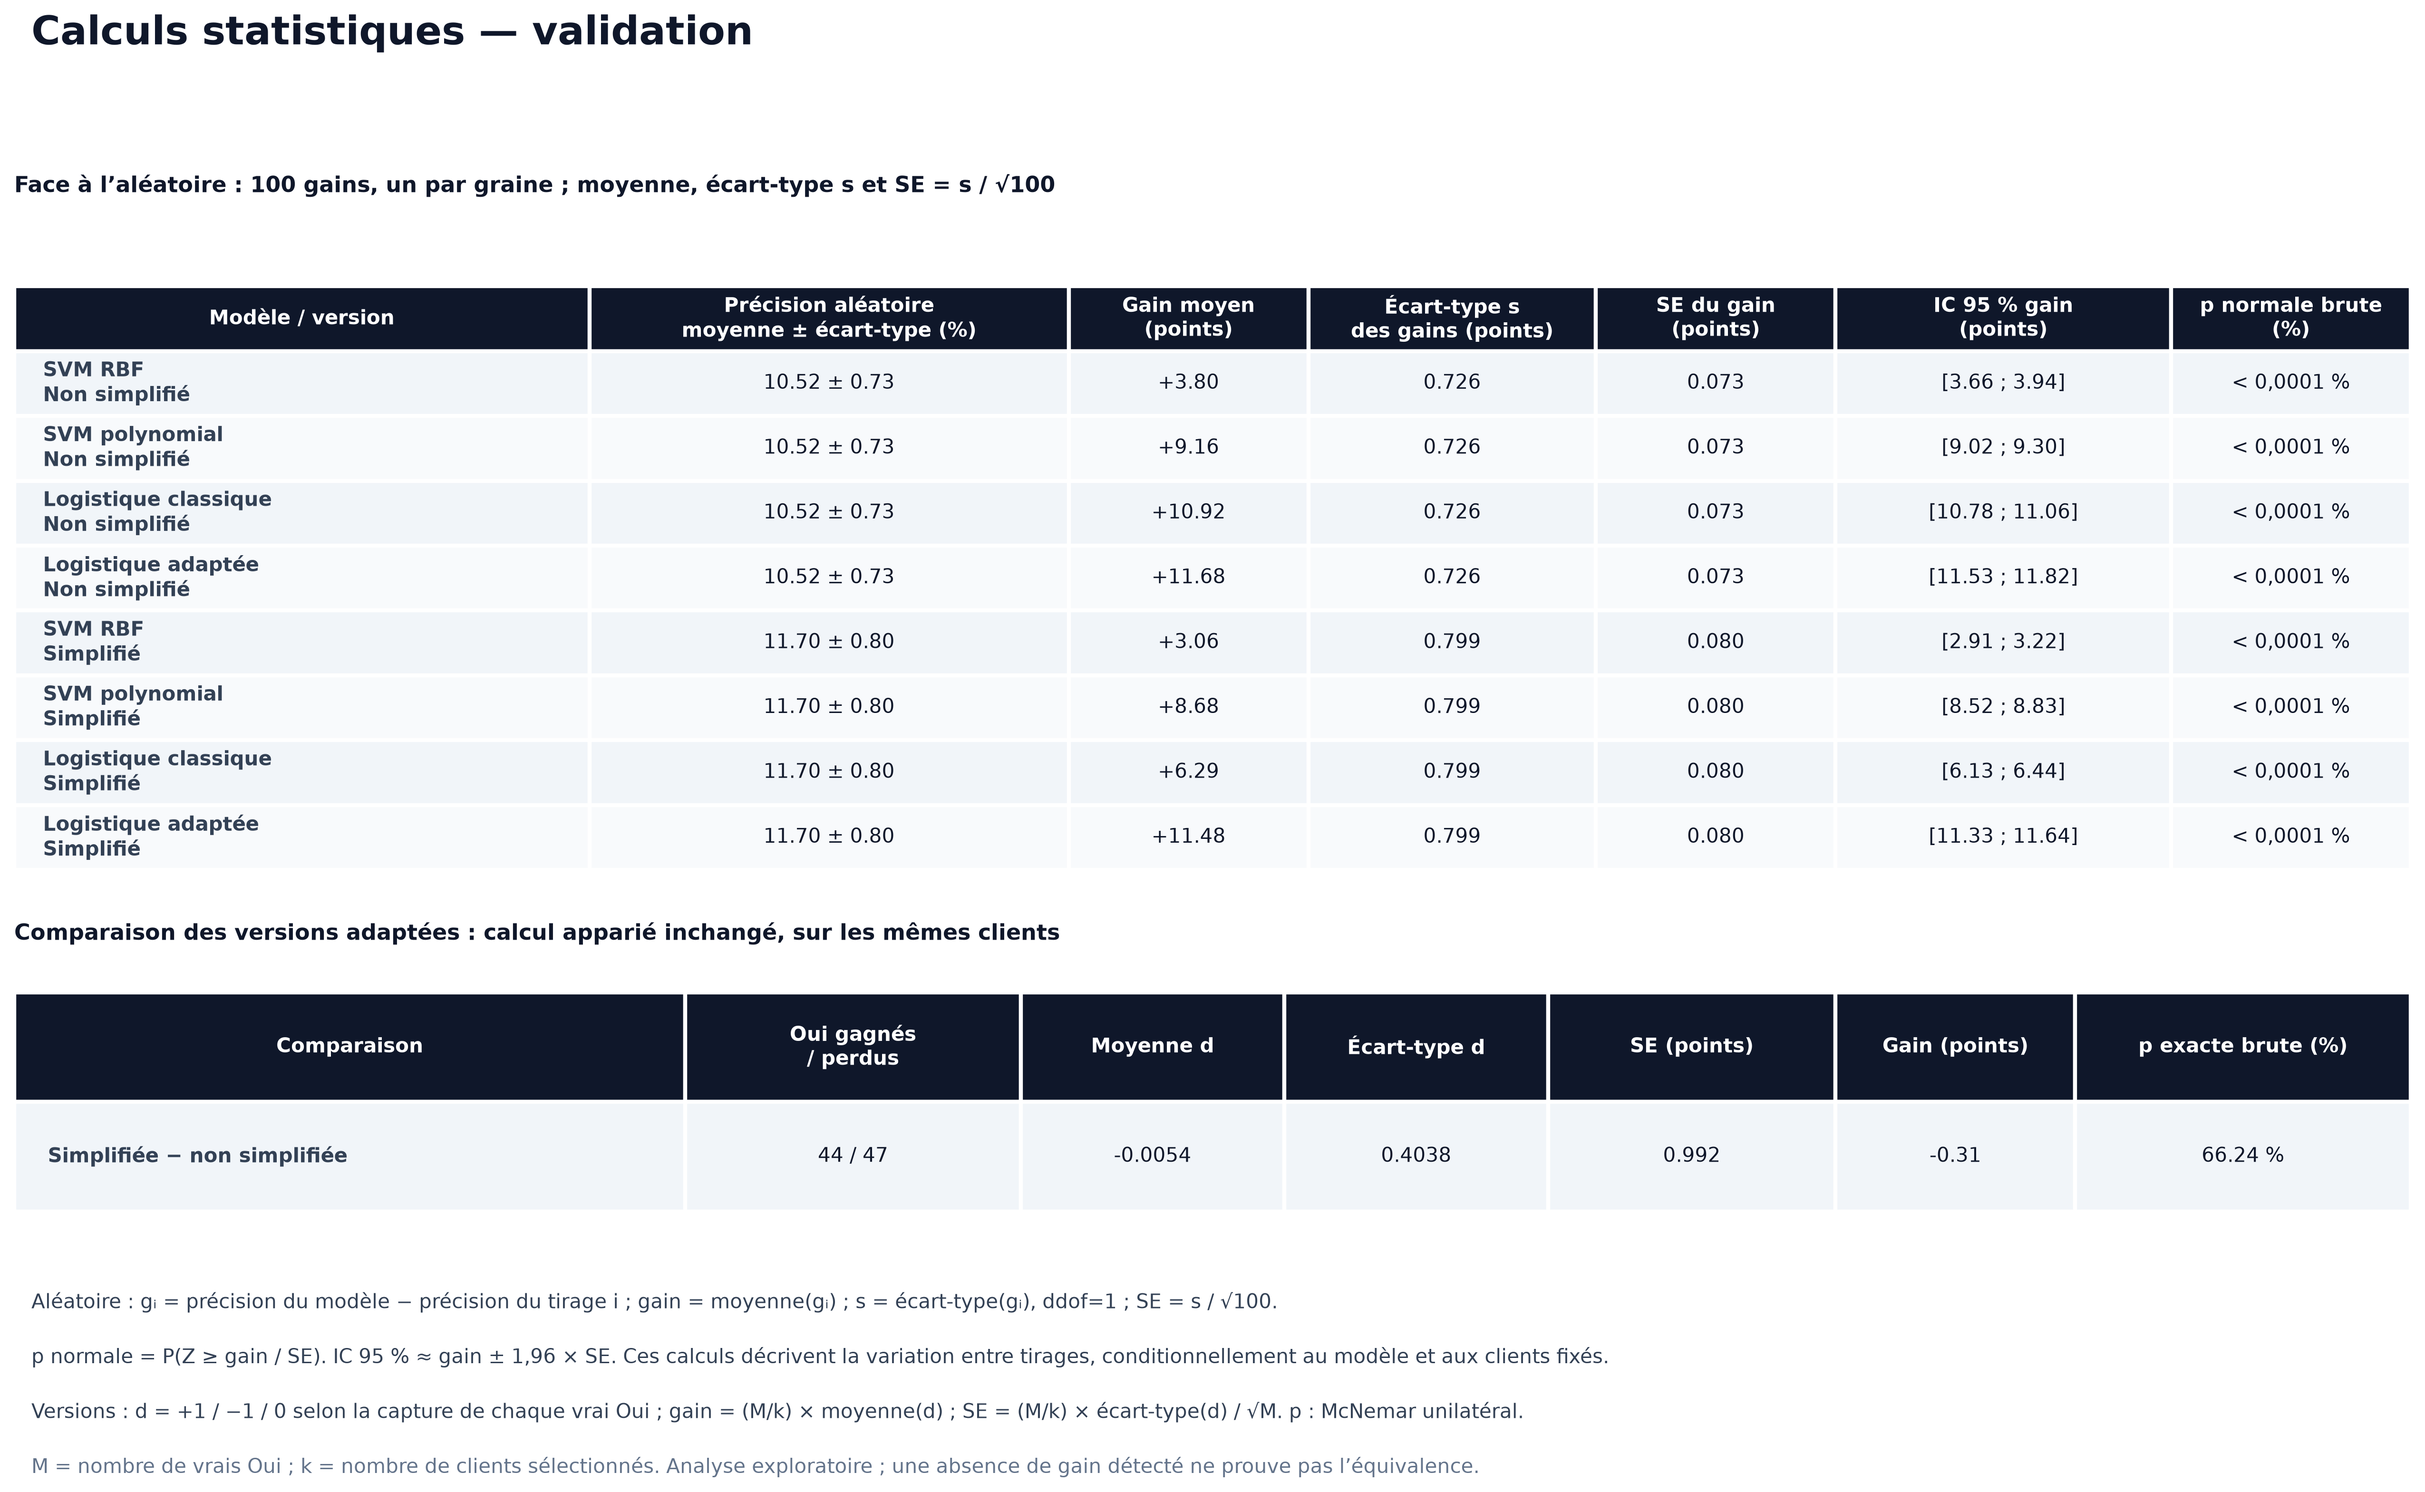
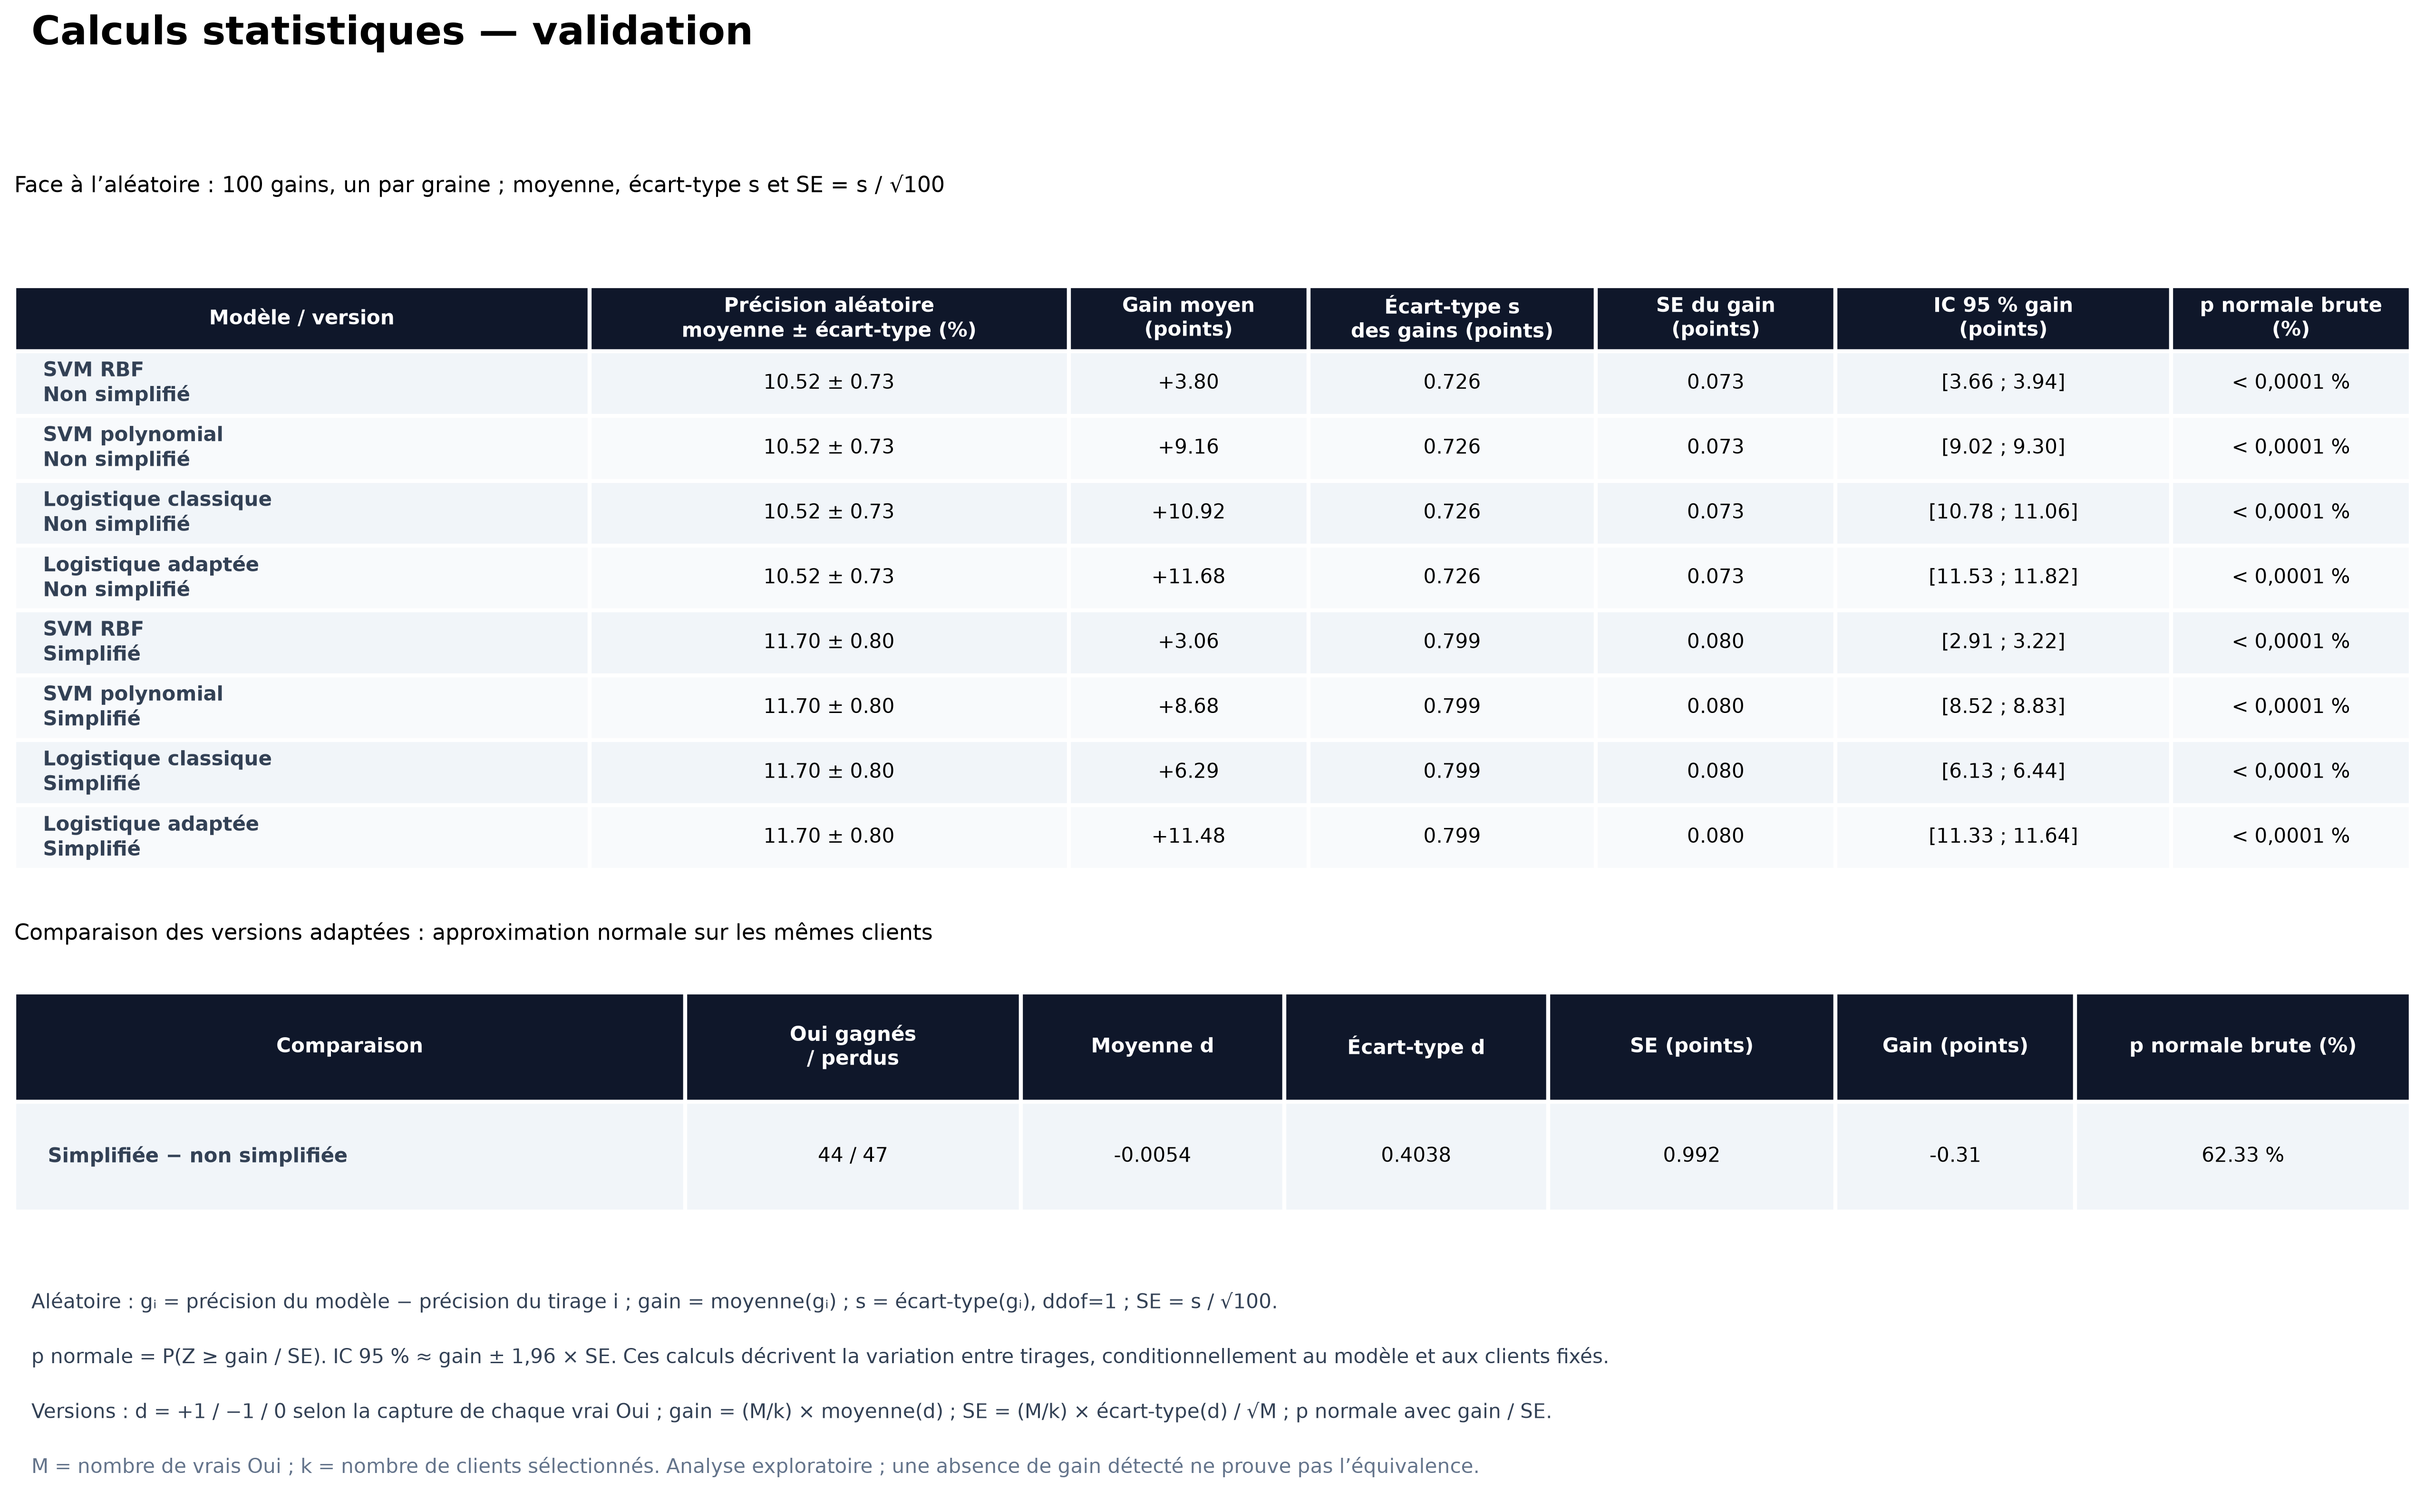
v1.3 Modification des calculs Statistiques

diff --git a/Scripts/TableauRecapitulatif.py b/Scripts/TableauRecapitulatif.py
@@ -60,7 +60,7 @@ def enregistrer_tableau(tableau, dossier_resultats="../Resultats/Statistiques"):
         dessiner_tableau(axes[1], ligne_versions,
                         ["Comparaison", "Gain (points)", "p-value (%)", "IC 95 % du gain (points)"],
                         [.46, .14, .14, .26], ["#c2410c"])
-        fig.text(.06, .09, "Gain = précision du modèle − précision moyenne aléatoire (100 graines, 0 à 99). p-values brutes, sans correction.",
+        fig.text(.06, .09, "Gain = précision du modèle − précision moyenne aléatoire (100 graines, 0 à 99). p-values normales brutes, sans correction.",
                  color="#475569", fontsize=10)
         fig.text(.06, .055, "Choix final : régression logistique adaptée, données non simplifiées.",
                  color="#c2410c", fontweight="bold", fontsize=11)
@@ -88,7 +88,7 @@ def enregistrer_tableau(tableau, dossier_resultats="../Resultats/Statistiques"):
                         ["Modèle / version", "Précision aléatoire\nmoyenne ± écart-type (%)", "Gain moyen\n(points)",
                          "Écart-type s\ndes gains (points)", "SE du gain\n(points)", "IC 95 % gain\n(points)", "p normale brute\n(%)"],
                         [.24, .20, .10, .12, .10, .14, .10])
-        axes[1].set_title("Comparaison des versions adaptées : calcul apparié inchangé, sur les mêmes clients",
+        axes[1].set_title("Comparaison des versions adaptées : approximation normale sur les mêmes clients",
                           loc="left", fontsize=11, pad=14)
         r = versions
         dessiner_tableau(axes[1], [["Simplifiée − non simplifiée", f"{int(r.gagnes)} / {int(r.perdus)}",
@@ -96,10 +96,10 @@ def enregistrer_tableau(tableau, dossier_resultats="../Resultats/Statistiques"):
                                    f"{100*r.erreur_standard_gain_precision:.3f}",
                                    f"{100*r.gain_precision:+.2f}", pourcentage_p(r.p_brute)]],
                         ["Comparaison", "Oui gagnés\n/ perdus", "Moyenne d", "Écart-type d", "SE (points)",
-                         "Gain (points)", "p exacte brute (%)"], [.28, .14, .11, .11, .12, .10, .14])
+                         "Gain (points)", "p normale brute (%)"], [.28, .14, .11, .11, .12, .10, .14])
         fig.text(.055, .155, "Aléatoire : gᵢ = précision du modèle − précision du tirage i ; gain = moyenne(gᵢ) ; s = écart-type(gᵢ), ddof=1 ; SE = s / √100.", fontsize=10, color="#334155")
         fig.text(.055, .12, "p normale = P(Z ≥ gain / SE). IC 95 % ≈ gain ± 1,96 × SE. Ces calculs décrivent la variation entre tirages, conditionnellement au modèle et aux clients fixés.", fontsize=10, color="#334155")
-        fig.text(.055, .085, "Versions : d = +1 / −1 / 0 selon la capture de chaque vrai Oui ; gain = (M/k) × moyenne(d) ; SE = (M/k) × écart-type(d) / √M. p : McNemar unilatéral.", fontsize=10, color="#334155")
+        fig.text(.055, .085, "Versions : d = +1 / −1 / 0 selon la capture de chaque vrai Oui ; gain = (M/k) × moyenne(d) ; SE = (M/k) × écart-type(d) / √M ; p normale avec gain / SE.", fontsize=10, color="#334155")
         fig.text(.055, .05, "M = nombre de vrais Oui ; k = nombre de clients sélectionnés. Analyse exploratoire ; une absence de gain détecté ne prouve pas l’équivalence.", fontsize=10, color="#64748b")
         fig.tight_layout(rect=(.04, .20, .99, .93), h_pad=2)
         chemin_calculs = dossier / "Calculs_statistiques.png"

diff --git a/Scripts/Statistiques.py b/Scripts/Statistiques.py
@@ -1,7 +1,7 @@
 # %% Imports — aucune lecture du jeu de test
 import numpy as np
 import pandas as pd
-from scipy.stats import binomtest, norm
+from scipy.stats import norm
 from joblib import load
 from Random import evaluer_aleatoire
 
@@ -28,9 +28,6 @@ def comparer_selections(y, choix, reference):
     gain_precision = (gagnes - perdus) / k
     p_normale = (float(norm.sf(gain_precision / erreur_standard))
                  if erreur_standard > 0 else (1.0 if moyenne == 0 else None))
-    # Version unilaterale du test exact de McNemar sur la capture des vrais oui.
-    p_exacte = (float(binomtest(gagnes, gagnes + perdus, .5, alternative="greater").pvalue)
-               if gagnes + perdus else 1.0)
     marge = float(norm.ppf(.975) * erreur_standard)
     return {
         "clients": len(y), "oui": m, "selectionnes": k,
@@ -43,7 +40,7 @@ def comparer_selections(y, choix, reference):
         "gain_rappel": moyenne, "gain_precision": gain_precision,
         "erreur_standard_gain_precision": float(erreur_standard),
         "ic95_bas": gain_precision - marge, "ic95_haut": gain_precision + marge,
-        "p_normale_approx": p_normale, "p_brute": p_exacte,
+        "p_normale_approx": p_normale, "p_brute": p_normale,
     }
 
 
@@ -115,7 +112,7 @@ def analyser_validation(
     reference = predictions_top20(initial["logistique_adaptee"]["modele"], X_initial_commun)
     lignes.append({
         "version": "Comparaison des versions", "modele": "Logistique adaptee simplifiee",
-        "reference": "Logistique adaptee initiale", "test": "McNemar unilateral sur vrais oui",
+        "reference": "Logistique adaptee initiale", "test": "Normale unilaterale, gain / SE appariee",
         **comparer_selections(y_simple, choix, reference),
     })
 

diff --git a/README.md b/README.md
@@ -97,7 +97,7 @@ L'exploration descriptive a porté sur l'ensemble du fichier ; les scores prédi
 
 | Modèle | Paramètres explorés par CV |
 |---|---|
-| Aléatoire | Sélection uniforme de 20 % des positions, sans remise ; évaluation sur 100 graines |
+| Aléatoire | Sélection uniforme de 20 % des positions, sans remise |
 | SVM RBF | `C` et `gamma` : `[0.01, 0.1, 1, 10]` ; `class_weight="balanced"` |
 | SVM polynomial | `degree` : `[2, 3, 4]` ; `coef0` : `[10, 20]` ; `class_weight="balanced"` |
 | Logistique classique | `alpha` : `[0.005, 0.01, 0.1, 0.5]` ; `n_iterations` : `[500, 1000, 2500, 5000]` |
@@ -128,9 +128,7 @@ $$
 \text{Rappel}=\frac{\text{souscripteurs sélectionnés}}{\text{tous les souscripteurs de l'ensemble évalué}}.
 $$
 
-La référence aléatoire est évaluée sur **100 tirages, avec les graines 0 à 99**. Chaque tirage sélectionne exactement $k=\lceil0{,}2n\rceil$ clients, sans remise. Pour la précision et le rappel, les comparatifs affichent la **moyenne ± l'écart-type** des 100 scores, calculés séparément sur chaque ensemble. L'écart-type utilise `ddof=1`.
-
-`predict_random(X, seed=42)` conserve le tirage historique quand aucune graine n'est précisée ; une autre graine produit un autre tirage. Les **matrices de confusion aléatoires gardent le tirage de référence de graine 42**, indiqué sur les figures. Les prédictions ne sont jamais moyennées pour fabriquer une sélection.
+La référence aléatoire sélectionne uniformément 20 % des clients, sans remise. Ses performances sont estimées à partir de plusieurs sélections indépendantes, pour limiter l'effet d'une sélection particulièrement favorable ou défavorable. Les comparatifs présentent la **moyenne ± l'écart-type** de sa précision et de son rappel, séparément sur chaque ensemble. Les matrices de confusion montrent une sélection de référence, identifiée par la graine 42.
 
 Dans les matrices de confusion, « Oui » sur l'axe horizontal signifie **client sélectionné**. Les figures ci-dessous présentent à la fois l'entraînement et la validation.
 
@@ -191,25 +189,44 @@ Je cherche à mesurer :
 1. Le gain de chaque modèle appris face à l'aléatoire, dans chacune des deux versions.
 2. Le gain de la régression adaptée simplifiée face à la non simplifiée, sur les mêmes clients.
 
-Le **gain est la précision du modèle moins la précision moyenne des 100 tirages aléatoires**, en points de pourcentage. Les prédictions sont recalculées depuis les données et modèles sauvegardés, sur les mêmes clients et avec le même quota. Les **p-values brutes sont présentées en pourcentage**.
+Le **gain est la différence de précision entre le modèle et sa référence**, en points de pourcentage. Face à l'aléatoire, j'utilise sa précision moyenne présentée dans l'évaluation. Pour les deux versions adaptées, la comparaison porte sur leurs clients communs, avec le même quota de sélection. Les **p-values brutes sont présentées en pourcentage**.
 
 ![Gains de précision, p-values et choix final](Resultats/Statistiques/Tableau_recapitulatif.png)
 
 ### Calculs utilisés
 
-Pour chaque graine $i$, je calcule le gain $g_i=P_{\mathrm{modèle}}-P_{\mathrm{aléatoire},i}$. Avec $B=100$ tirages, je calcule sa moyenne $\bar g$, son écart-type $s_g$ et son erreur standard :
+Je cherche à savoir si le gain moyen est positif : $H_0$ correspond à un gain nul ou négatif, et $H_1$ à un gain positif. J'utilise une **approximation normale**, avec une p-value unilatérale dans le sens d'une amélioration.
+
+Les différences étudiées dépendent de la comparaison :
+
+- **Face à l'aléatoire**, chaque différence vaut $g_i=P_{\mathrm{modèle}}-P_{\mathrm{référence},i}$, à partir des précisions de référence obtenues lors de l'évaluation. La précision du modèle est fixe : la moyenne des différences est donc sa précision moins la précision moyenne de la référence. La SE concerne ici l'estimation de cette référence moyenne, pour le modèle et les clients évalués.
+- **Entre les deux versions adaptées**, je compare les décisions sur chaque vrai souscripteur commun. La différence $d_i$ vaut +1 si seule la simplifiée le sélectionne, −1 si seule l'initiale le sélectionne, et 0 si leurs décisions sont identiques. Avec $M$ souscripteurs et $k$ clients sélectionnés par version, je définis $g_i=(M/k)d_i$ : la moyenne de ces contributions donne le gain de précision de la simplifiée face à l'initiale.
+
+À partir des $n$ différences, je calcule la moyenne, l'écart-type et l'erreur standard de la moyenne :
 
 $$
-\bar g=\frac{1}{B}\sum_i g_i,
+\bar g=\frac{1}{n}\sum_{i=1}^{n}g_i,
 \qquad
-s_g=\sqrt{\frac{\sum_i(g_i-\bar g)^2}{B-1}},
+s_g=\sqrt{\frac{\sum_{i=1}^{n}(g_i-\bar g)^2}{n-1}},
 \qquad
-SE=\frac{s_g}{\sqrt B}.
+SE=\frac{s_g}{\sqrt n}.
 $$
 
-Pour les comparaisons à l'aléatoire, je conserve l'approximation normale : sous l'hypothèse d'un gain moyen nul, la p-value unilatérale vaut $1-\Phi(\bar g/SE)$. L'intervalle approché est $\bar g\pm1{,}96\,SE$. La SE et cet intervalle décrivent la variabilité de la moyenne liée aux graines, pour le modèle et les clients fixés ; ils ne mesurent pas l'incertitude sur de nouveaux clients. Multiplier les tirages réduit cette SE.
+L'écart-type mesure la dispersion des différences ; la SE mesure la précision de l'estimation de leur moyenne. Pour comparer les versions, $n=M$. Le dénominateur $n-1$ correspond au calcul de l'écart-type avec `ddof=1`.
 
-La comparaison entre les deux versions adaptées reste inchangée : pour chaque vrai souscripteur, $d$ vaut +1 si seule la simplifiée le retrouve, −1 si seule l'initiale le retrouve, et 0 sinon. Avec $M$ vrais souscripteurs et $k$ clients sélectionnés, le gain vaut $(M/k)\bar d$ et sa SE approchée vaut $(M/k)s_d/\sqrt M$. La p-value repose ici sur le test binomial exact des désaccords, ou test de McNemar unilatéral.
+Je rapporte ensuite le gain moyen à sa SE. Sous l'hypothèse d'un gain moyen nul, la statistique est approximée par une loi normale centrée réduite :
+
+$$
+z=\frac{\bar g}{SE},
+\qquad
+p=1-\Phi(z),
+$$
+
+où $\Phi$ est la fonction de répartition de cette loi. La p-value est l'aire à droite de $z$ : sous $H_0$ et les hypothèses de l'approximation, elle mesure la probabilité d'obtenir une statistique au moins aussi favorable au modèle. Un gain positif élevé par rapport à sa SE donne une petite p-value.
+
+L'intervalle à 95 % est approché par $\bar g\pm1{,}96\,SE$. Les calculs se font en proportions ; le gain, son écart-type, sa SE et les bornes de l'intervalle sont multipliés par 100 pour être présentés en points de pourcentage.
+
+Pour les deux versions adaptées, le gain de la simplifiée est de **−0,31 point**, avec une p-value de **62,33 %** et un intervalle de **[−2,26 ; +1,63] points**. Ces résultats ne mettent pas en évidence un gain positif de la simplification.
 
 <details>
 <summary>Voir les calculs détaillés et les formules</summary>
